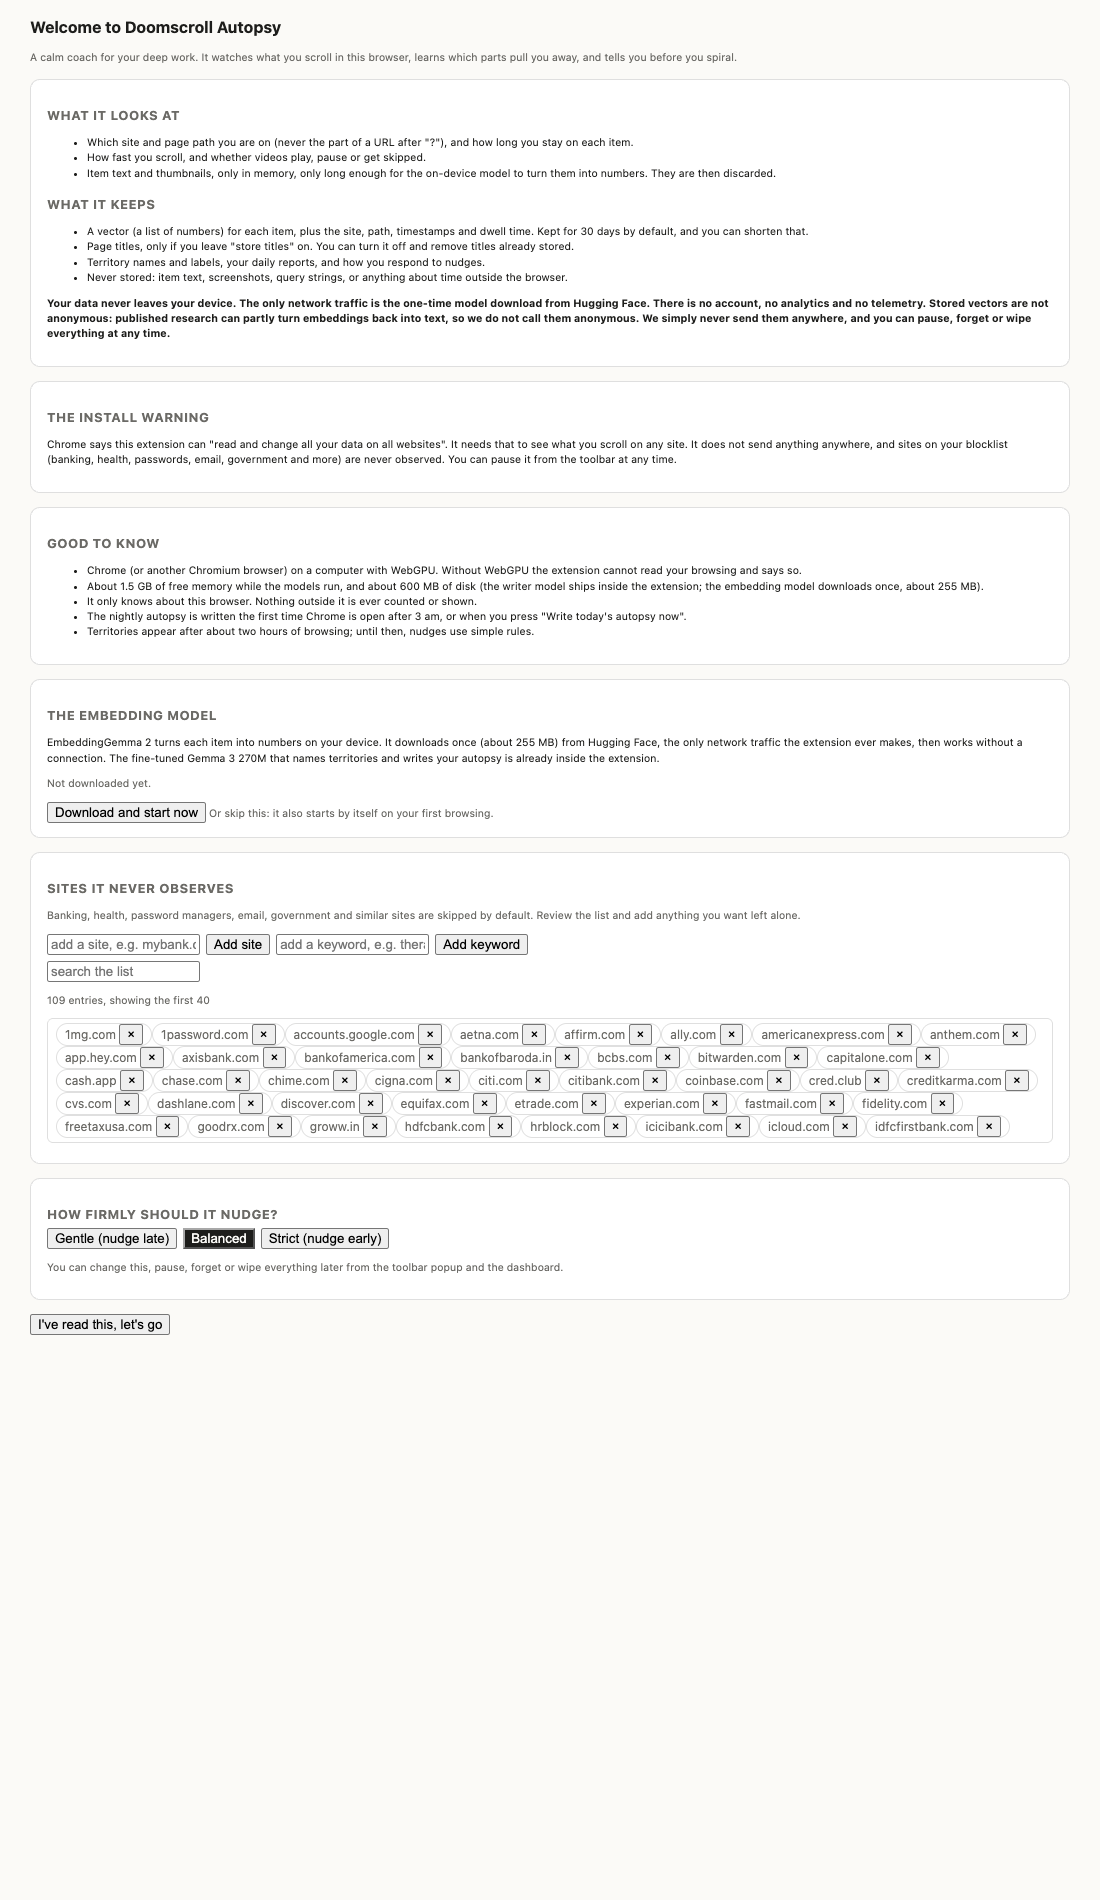
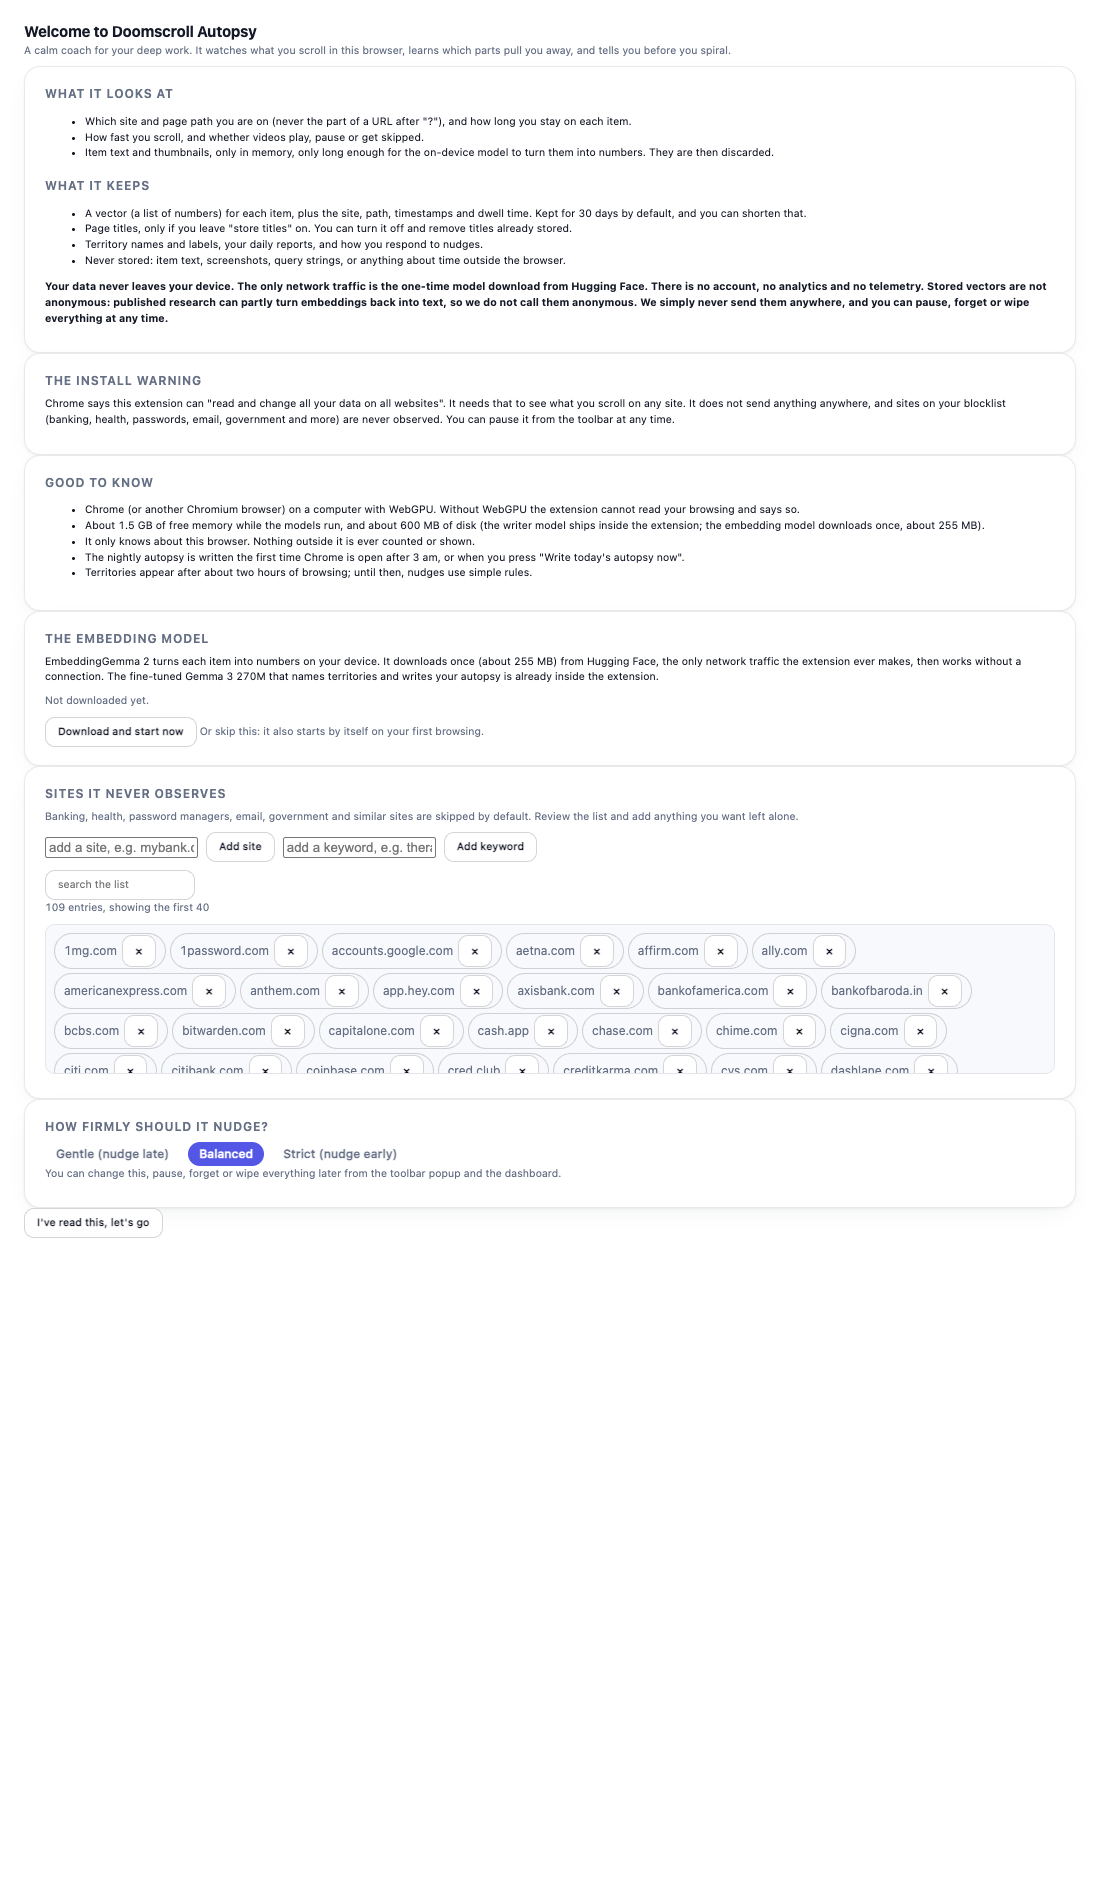
Release 0.3.0 rebuilt with the redesigned UI; summary note

diff --git a/implementation-summary.md b/implementation-summary.md
@@ -849,3 +849,10 @@ None needs a decision-log entry; these fill gaps the PDD leaves open:
 
 ### Notes for the next milestone (M9)
 - Post material: the GRU story is honest and interesting (it ties; the promotion rule and the `requestAnimationFrame` hang are good anecdotes); the map and the tags are the visual wins; the breathing pause is a GIF. Use release 0.3.0 for the demo. D-61 to D-66 explain the choices.
+
+---
+
+## Post-M8 additions (2026-10-17, owner's requests)
+- **Demo profile** (`extension/scripts/demo/`, `lib/replay/demo-*.ts`): `npm run demo:seed` (from the owner's browsing history, whitelisted hosts and timestamps only; the History copy in `.demo-history/` and the profile in `.demo/` are git-ignored) → `npm run demo:profile` (real embeddings, k-means, 270M names and autopsies, GRU/Markov) → `npm run demo:open` (load unpacked from `.demo/chrome-mv3` once; Chrome 155 ignores `--load-extension`). `node scripts/demo/shoot.mjs` takes screenshots. Re-run the two build steps before recording so "today" is the recording day. Describe it in the post as a demo profile built from the owner's own browsing history with scroll and dwell signals reconstructed, not as recorded live.
+- **UI redesign** (D-67): shared design system, compact popup with a pause dropdown, five-tab dashboard.
[1 lines of base64/hex data omitted]
